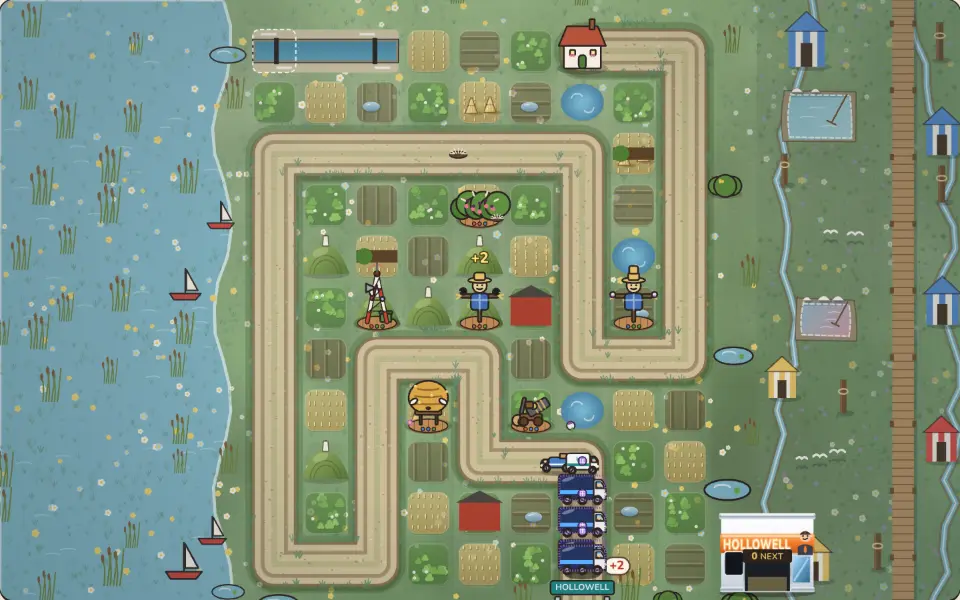
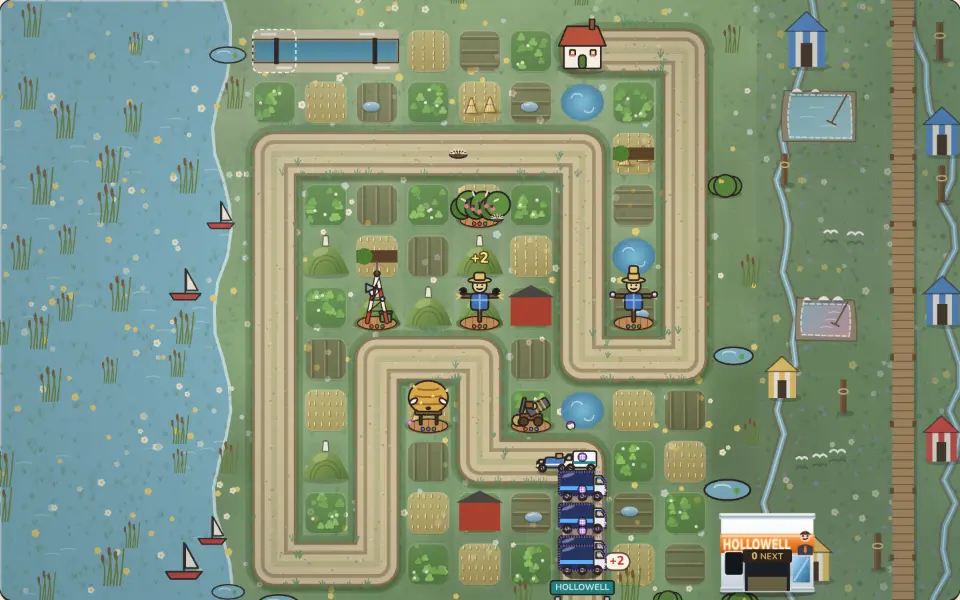
Item 307 slice 2: Saltmarsh's 3D flats as one wet patchwork, not overlapping discs; key art re-shot
Claude-Session: https://claude.ai/code/session_01SimvMN1RHBGCWN7Eo7MzhN

Changed region(s): [[0.5625, 0.75, 0.6562, 0.96]]

diff --git a/games/hedgerow/src/render3d/terrain.ts b/games/hedgerow/src/render3d/terrain.ts
@@ -1083,7 +1083,9 @@ export function buildGround(level: Level): Ground {
         const jx = x + (deco() - 0.5) * 0.2;
         const jz = z + (deco() - 0.5) * 0.2;
         if (laneDistance(level, jx, jz) < 0.9) continue;
-        flats.push({ x: jx, y: heightAt(jx, jz) - 0.02, z: jz, ry: deco() * 6.3, s: 0.36 + deco() * 0.08, sy: 0.03, color: patchOf(jx, jz) });
+        // Plan item 307: flat discs a hair over the ground, each a fraction higher than the last, so same-coloured
+        // neighbours merge into one wet sheet (a sphere cap's shaded rim outlined every one).
+        flats.push({ x: jx, y: heightAt(jx, jz) + 0.012 + deco() * 0.006, z: jz, ry: deco() * 6.3, s: 0.36 + deco() * 0.08, sy: 1, color: patchOf(jx, jz) });
         // Reeds stand in tight clumps (item 262: loose ones read as scattered black sticks from above).
         if (deco() < 0.4)
           for (let k = 0; k < 9; k++)
@@ -1137,8 +1139,8 @@ export function buildGround(level: Level): Ground {
     ])
       if (m) group.add(m);
     for (const m of [
-      // Plan item 307: smooth patches (16 x 8; at 10 x 5 their facets read as broken grey rock at the field's edge).
-      instanced(new THREE.SphereGeometry(1, 16, 8), new THREE.MeshStandardMaterial({ roughness: 0.18, metalness: 0.08 }), flats),
+      // Plan item 307: flat wet patches (sphere caps, faceted, read as broken grey rock at the field's edge).
+      instanced(new THREE.CircleGeometry(1, 20).rotateX(-Math.PI / 2), new THREE.MeshStandardMaterial({ roughness: 0.22, metalness: 0.06 }), flats),
       instanced(new THREE.ConeGeometry(0.016, 0.36, 4).translate(0, 0.18, 0), new THREE.MeshStandardMaterial({ roughness: 0.9, flatShading: true }), reeds),
       instanced(new THREE.SphereGeometry(1, 8, 6), new THREE.MeshStandardMaterial({ roughness: 0.6 }), egretBody, true),
       instanced(new THREE.CylinderGeometry(0.008, 0.012, 0.12, 5).translate(0, 0.06, 0), new THREE.MeshStandardMaterial({ roughness: 0.6 }), egretNeck),

diff --git a/docs/plan/two-week-plan.md b/docs/plan/two-week-plan.md
@@ -2957,7 +2957,7 @@ The items come from fresh-eyes audits on 2026-11-01 and 2026-11-02 (items 25-32:
 - **Accept:** face 60 px+ wide on ns-play-D, 40 px+ on ns-play-P; skin mean luminance 55-85% with eyes and lips 3:1 against it; cathode-perf in budget; cathode specs pass; shots of title and pick at P and D.
 - **Size:** 2
 
-## 307. [ ] Hedgerow 3D: a finished world edge, and a phone camera that frames the field *(lane B, in progress)* *(slice 1, 2026-11-11 04:50 lane B: the coast's sea mist and spray (soft puffs a cell across) drift over the water only (x < -0.7), not over the plots where they read as white blobs; Saltmarsh's flats are smooth patches (16x8 spheres, were 10x5 facets that read as grey rock) with blue-grey tide pools (#7f9fa8, was grey #97a79b); key art re-shot; 3dframe, biome3d pass at P and D (35); shot scratchpad h307 D. Left: the flats still read as overlapping discs (a continuous mud sheet with a foam line?), objects cut by the canvas top at D, every plot column inside the P close frame)*
+## 307. [ ] Hedgerow 3D: a finished world edge, and a phone camera that frames the field *(lane B, in progress)* *(slice 1, 2026-11-11 04:50 lane B: the coast's sea mist and spray (soft puffs a cell across) drift over the water only (x < -0.7), not over the plots where they read as white blobs; Saltmarsh's flats are smooth patches (16x8 spheres, were 10x5 facets that read as grey rock) with blue-grey tide pools (#7f9fa8, was grey #97a79b); key art re-shot; 3dframe, biome3d pass at P and D (35); shot scratchpad h307 D. Left: the flats still read as overlapping discs (a continuous mud sheet with a foam line?), objects cut by the canvas top at D, every plot column inside the P close frame)* *(slice 2, 2026-11-11 05:40 lane B: the flats are flat discs a hair over the ground (each a fraction higher than the last), so same-coloured neighbours merge into one wet patchwork of silt, samphire and pools (sphere caps' shaded rims outlined each one); key art re-shot; 3dframe, biome3d pass (35); shot scratchpad h307b D. Left: objects cut by the canvas top at D, every plot column inside the P close frame)*
 - **Why:** `plan1108e/hedge-l21-3d-D` (0-130 x 80-560): the left edge is grey faceted rock with no water surface; objects sliced by the top edge (870-940 x 72-85, trees 400-500 x 72-140); white out-of-focus blobs over the field (220-260 x 815-860, 600-650 x 710-745). `hedge-l21-3d-P` (0-100 x 60-680) the same cliff, and the field's right column is cut at x=390, the depot roof at the top (150-250 x 55-110).
 - **Build:** the diorama's edge as a crafted base: marsh water with a foam line and reeds, a soil skirt under the field; on a phone the camera fits the field's bounds in portrait (Whole Field stays a toggle); motes never sit between the camera and a plot.
 - **Accept:** no untextured grey geometry in either l21 3D shot; every plot column inside the phone frame; nothing cut by the canvas top; no mote over 12 px across a plot; hedgerow-3dframe, -closeframe, -biome3d pass; key art re-shot; shots P and D.
